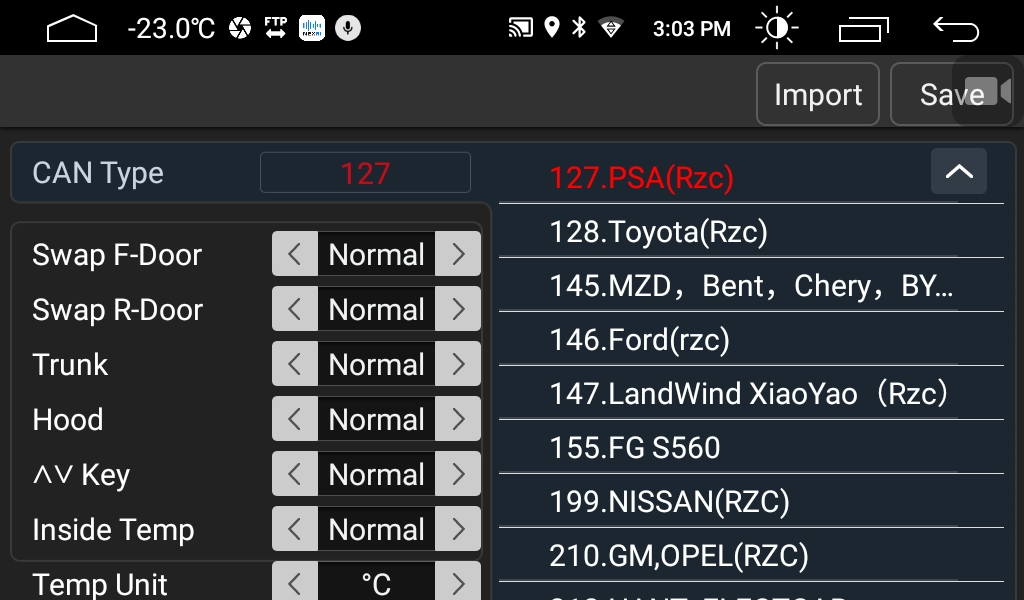
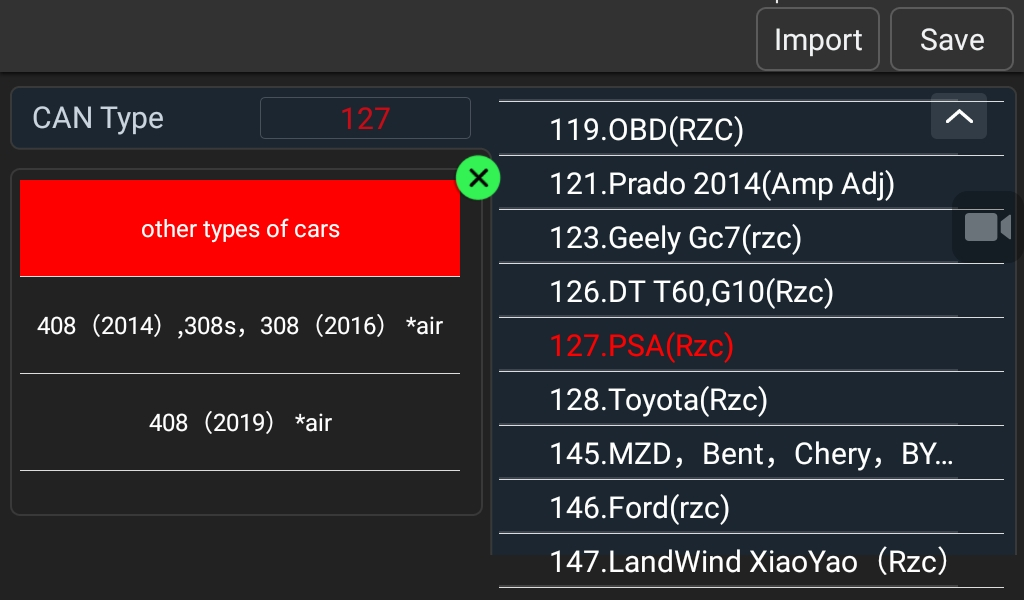
Added library for emulating another PSA can box (type 108)

diff --git a/JunsunPSAVANRemote.cpp b/JunsunPSAVANRemote.cpp
@@ -1,0 +1,81 @@
+#include "JunsunPSAVANRemote.h"
+
+JunsunPSAVANRemote::JunsunPSAVANRemote(Stream& serial)
+{
+    serialPort = &serial;
+}
+
+void JunsunPSAVANRemote::SendButtonCode(JunsunPSAVANButton button)
+{
+    uint8_t data[] = { (uint8_t) button, 0x01 }; //for press
+    //uint8_t data[] = { (uint8_t) button, 0x00 }; // for release?
+    SendData(ButtonCode, data, JS_ARRAY_SIZE(data));
+}
+
+void JunsunPSAVANRemote::SendCarInfo(uint8_t averageSpeed, uint16_t range, uint16_t distanceTravelled, float instantConsumption, float avgConsumption, int8_t externalTemperature, DoorStatus doorStatus)
+{
+    uint8_t temperatureByte = 0x00;
+
+    if (externalTemperature >= 0)
+    {
+        temperatureByte = externalTemperature;
+    }
+    else
+    {
+        temperatureByte = 0xFF - (-1*(externalTemperature+1));
+    }
+
+    uint16_t avgCons = avgConsumption * 10;
+    uint16_t instantCons = instantConsumption * 10;
+
+    uint8_t data[] = { averageSpeed, highByte(range), lowByte(range), highByte(distanceTravelled), lowByte(distanceTravelled), highByte(instantCons), lowByte(instantCons), highByte(avgCons), lowByte(avgCons), temperatureByte, doorStatus.asByte, 0x03, 0xFF };
+    SendData(CarStatus, data, JS_ARRAY_SIZE(data));
+}
+
+void JunsunPSAVANRemote::SendData(uint8_t functionId, uint8_t message[], uint8_t messageLength)
+{
+    /* the commands have the following layout
+     *      1st byte: 0x2E
+     *      2nd byte: function id
+     *      3rd byte: length of the payload (excluding the checksum and the first two bytes)
+     *      data bytes
+     *      last byte: checkSum (0xFF - sum of the individual bytes from 2nd byte)
+     *
+     *      Example: 0x2E 0x20 0x02 0x01 0x01 0xDB
+     *
+     *      0x2E: header
+     *      0x20: function id
+     *      0x02: length of the message: elemCount(0x01, 0x01)
+     *      0x01: payload byte1
+     *      0x01: payload byte2
+     *      0xDB: checksum = 0xFF - (0x20 + 0x02 + 0x01 + 0x01) (it is a byte so it can overflow)
+    */
+
+    // the first element is 0x2E
+    outputBuffer[0] = 0x2E;
+
+    // the second is the function id
+    outputBuffer[1] = functionId;
+
+    // the third is the length of the payload
+    outputBuffer[2] = messageLength;
+
+    uint8_t sumOfPayload = outputBuffer[1] + outputBuffer[2];
+    for (int i = 0; i < messageLength; ++i)
+    {
+        outputBuffer[i + 3] = message[i];
+        sumOfPayload += message[i];
+    }
+
+    // the last byte is the checksum
+    outputBuffer[messageLength + 3] = 0xFF - sumOfPayload;
+
+    //for (int i = 0; i < messageLength+4; ++i)
+    //{
+    //    Serial.print(outputBuffer[i], HEX);
+    //    Serial.print(" ");
+    //} 
+    //Serial.println();
+
+    serialPort->write(outputBuffer, messageLength + 4);
+}

diff --git a/JunsunPSACANRemote.cpp b/JunsunPSACANRemote.cpp
@@ -1,17 +1,17 @@
-#include "JunsunPSARemote.h"
+#include "JunsunPSACANRemote.h"
 
-JunsunPSARemote::JunsunPSARemote(Stream& serial)
+JunsunPSACANRemote::JunsunPSACANRemote(Stream& serial)
 {
     serialPort = &serial;
 }
 
-void JunsunPSARemote::SendButtonCode(JunsunPSAButton button)
+void JunsunPSACANRemote::SendButtonCode(JunsunPSAButton button)
 {
     uint8_t data[] = { 0x02, (uint8_t) button };
     SendData(data, JS_ARRAY_SIZE(data));
 }
 
-void JunsunPSARemote::SendSpeed(uint8_t speed)
+void JunsunPSACANRemote::SendSpeed(uint8_t speed)
 {
     uint16_t speedData = speed * 100;
 
@@ -22,7 +22,7 @@ void JunsunPSARemote::SendSpeed(uint8_t speed)
     SendData(data, JS_ARRAY_SIZE(data));
 }
 
-void JunsunPSARemote::SendTripDataCar(uint16_t icon1Data, double icon2Data, uint16_t icon3Data)
+void JunsunPSACANRemote::SendTripDataCar(uint16_t icon1Data, double icon2Data, uint16_t icon3Data)
 {
     // icon1 max = 2000
     // icon3 max = 6000
@@ -49,7 +49,7 @@ void JunsunPSARemote::SendTripDataCar(uint16_t icon1Data, double icon2Data, uint
     SendData(data, JS_ARRAY_SIZE(data));
 }
 
-void JunsunPSARemote::SendTripData1(uint16_t icon1Data, double icon2Data, uint8_t icon3Data)
+void JunsunPSACANRemote::SendTripData1(uint16_t icon1Data, double icon2Data, uint8_t icon3Data)
 {
     uint8_t icon1_part1 = highByte(icon1Data);
     uint8_t icon1_part2 = lowByte(icon1Data);
@@ -71,7 +71,7 @@ void JunsunPSARemote::SendTripData1(uint16_t icon1Data, double icon2Data, uint8_
     SendData(data, JS_ARRAY_SIZE(data));
 }
 
-void JunsunPSARemote::SendTripData2(uint16_t icon1Data, double icon2Data, uint8_t icon3Data)
+void JunsunPSACANRemote::SendTripData2(uint16_t icon1Data, double icon2Data, uint8_t icon3Data)
 {
     uint8_t icon1_part1 = highByte(icon1Data);
     uint8_t icon1_part2 = lowByte(icon1Data);
@@ -92,7 +92,7 @@ void JunsunPSARemote::SendTripData2(uint16_t icon1Data, double icon2Data, uint8_
     SendData(data, JS_ARRAY_SIZE(data));
 }
 
-void JunsunPSARemote::SendTemperature(int8_t temperature)
+void JunsunPSACANRemote::SendTemperature(int8_t temperature)
 {
     // Max temperature which is displayed is 87
     // Min temperature which is displayed is -40
@@ -112,7 +112,7 @@ void JunsunPSARemote::SendTemperature(int8_t temperature)
     SendData(data, JS_ARRAY_SIZE(data));
 }
 
-void JunsunPSARemote::SendData(uint8_t message[], uint8_t messageLength)
+void JunsunPSACANRemote::SendData(uint8_t message[], uint8_t messageLength)
 {
     /* the commands have the following layout
      *      1st byte: 0xFD

diff --git a/JunsunPSAVANRemote.h b/JunsunPSAVANRemote.h
@@ -1,0 +1,79 @@
+// JunsunPSAVANRemote.h
+
+#ifndef _JUNSUNVANREMOTE_h
+#define _JUNSUNVANREMOTE_h
+
+#if defined(ARDUINO) && ARDUINO >= 100
+    #include "arduino.h"
+#else
+    #include "WProgram.h"
+#endif
+
+enum JunsunPSAVANButton
+{
+    VolumeUp = 0x01,
+    VolumeDown = 0x02,
+    NextTrack = 0x03,
+    PreviousTrack = 0x04,
+    Source = 0x05,
+    //PreviousAlbum = 0x06,
+    Mute = 0x07,
+    //NextAlbum = 0x07,
+    TripComputer = 0x20
+};
+
+enum JunsunPSAVANFunctionId
+{
+    CarStatus = 0x01,
+    ButtonCode = 0x20
+};
+
+typedef struct {
+    uint8_t unknown0    : 1; // bit 0
+    uint8_t unknown1    : 1; // bit 1
+    uint8_t hood        : 1; // bit 2
+    uint8_t trunk       : 1; // bit 3
+    uint8_t rear_left   : 1; // bit 4
+    uint8_t rear_right  : 1; // bit 5
+    uint8_t front_left  : 1; // bit 6
+    uint8_t front_right : 1; // bit 7
+} DoorStatusStruct;
+
+typedef union {
+    DoorStatusStruct status;
+    uint8_t asByte;
+} DoorStatus;
+
+
+constexpr uint8_t MAX_JUNSUN_MESSAGE_LENGTH = 17;
+
+/*
+ * This is an implementation for remote controlling 8227L based Chinese Android players. These are called Junsun, Mekede, etc.
+ * In order to make it work, you need to select 108. Peugeot206/207/307 from the CAN Type settings.
+ * This library is tied to the Android unit and not to the car's model. So you don't have to have a Peugeot car to make this library work.
+ * You can interface any car as long as you implement whatever protocol it uses.
+ */
+class JunsunPSAVANRemote
+{
+private:
+    #define JS_ARRAY_SIZE(x)  (sizeof(x) / sizeof((x)[0]))
+    Stream* serialPort;
+    uint8_t outputBuffer[MAX_JUNSUN_MESSAGE_LENGTH];
+
+    void SendData(uint8_t functionId, uint8_t message[], uint8_t messageLength);
+
+public:
+    /*
+     * Serial should be an initialized Serial port with the following setup:
+     * Baud      : 38400
+     * Start bits: 1
+     * Data bits : 8
+     * Stop bits : 1
+     */
+    JunsunPSAVANRemote(Stream &serial);
+    ~JunsunPSAVANRemote();
+
+    void SendButtonCode(JunsunPSAVANButton button);
+    void SendCarInfo(uint8_t averageSpeed, uint16_t range, uint16_t distanceTravelled, float instantConsumption, float avgConsumption, int8_t externalTemperature, DoorStatus doorStatus);
+};
+#endif

diff --git a/JunsunPSACANRemote.h b/JunsunPSACANRemote.h
@@ -1,7 +1,7 @@
-// JunsunPSARemote.h
+// JunsunPSACANRemote.h
 
-#ifndef _JunsunPSARemote_h
-#define _JunsunPSARemote_h
+#ifndef _JunsunPSACANRemote_h
+#define _JunsunPSACANRemote_h
 
 #if defined(ARDUINO) && ARDUINO >= 100
     #include "arduino.h"
@@ -24,7 +24,13 @@ enum JunsunPSAButton
 
 constexpr uint8_t MAX_JUNSUN_MESSAGE_LENGTH = 13;
 
-class JunsunPSARemote
+/*
+ * This is an implementation for remote controlling 8227L based Chinese Android players. These are called Junsun, Mekede, etc.
+ * In order to make it work, you need to select 127. PSA(Rcz) from the CAN Type settings.
+ * This library is tied to the Android unit and not to the car's model. So you don't have to have a Peugeot car to make this library work.
+ * You can interface any car as long as you implement whatever protocol it uses.
+ */
+class JunsunPSACANRemote
 {
 private:
     #define JS_ARRAY_SIZE(x)  (sizeof(x) / sizeof((x)[0]))
@@ -34,8 +40,15 @@ private:
     void SendData(uint8_t message[], uint8_t messageLength);
 
 public:
-    JunsunPSARemote(Stream &serial);
-    ~JunsunPSARemote();
+    /*
+     * Serial should be an initialized Serial port with the following setup:
+     * Baud      : 19200
+     * Start bits: 1
+     * Data bits : 8
+     * Stop bits : 1
+     */
+    JunsunPSACANRemote(Stream &serial);
+    ~JunsunPSACANRemote();
 
     void SendButtonCode(JunsunPSAButton button);
     void SendSpeed(uint8_t speed);

diff --git a/readme.md b/readme.md
@@ -8,11 +8,13 @@ The CAN box adapter has much more functionality, like switching to the reverse c
 
 ### Why ?
 
-Because it is fun. But other than that if you forgot to order the CAN bus adapter, or you are looking for a DIY project I am here to help.
+Because it is fun. But other than that if you forgot to order the CAN bus adapter, or you are looking for a DIY project I am here to help. You don't need to have a Peugeot/Citroen car for this library, as it is written for the headunit. You can interface any car as long as you implement whatever protocol it uses.  For example you may have a Ford car where you implement the CAN bus parsing, but you use this library telling the headunit that you have a Peugeot.
 
 ### The protocol
 
-The CAN bus adapter uses a 19200 baud serial port with a 8 databits 1 stop bit and no parity to communicate with the head unit. It uses a simple protocol to send commands.
+#### CAN box protocol
+
+When you select CAN Type **127. PSA(Rzc)** from the settings the headunit will use a **19200** baud serial port with a 8 databits 1 stop bit and no parity to communicate with the CAN box. It uses a simple protocol to send commands.
 
 A sample message:
 
@@ -23,25 +25,37 @@ A sample message:
      │                           bytes
      └────────────────────────── header
 
-### Usage
-I attached a simple sketch which can be found in the examples folder. You need to set your CAN type to 127. PSA(Rzc) on the head unit to make it work.
+#### VAN box protocol
 
+VAN bus was used in Peugeot 206(+), 307 (2001-2005), 406,1007, Citroen Xsara, C3, C5... etc cars between 2001-2005.
+When you select CAN Type **108. Peugeot206/207/307** from the settings the headunit will use a **38400** baud serial port with a 8 databits 1 stop bit and no parity to communicate with the "CAN box". It uses a simple protocol to send commands.
+
+    0x2E 0x01 0x02 0x01 0x01 0xDB
+     │    │    │   └───┼───┘  └────── checksum (0xFF - sum of the previous bytes excluding the header, can overflow) 
+     │    │    │       └───────────── data bytes
+     │    │    └───────────────────── length of the payload
+     │    └────────────────────────── function id
+     └─────────────────────────────── header
+
+### Usage
+I attached two simple sketches which can be found in the examples folder. 
+If you use the JunsunPSA**C**ANRemote library then need to set CAN type to **127. PSA(Rzc)** on the head unit to make it work.
 ![schema](https://github.com/morcibacsi/JunsunPSARemote/raw/main/extras/can_setup.jpg)
 
-A basic sketch is like this:
+A basic sketch with JunsunPSA**C**ANRemote is like this:
 
-    #include <JunsunPSARemote.h>
+    #include <JunsunPSACANRemote.h>
     
     #define RXD2 16
     #define TXD2 17
 
-    JunsunPSARemote* remote;
+    JunsunPSACANRemote* remote;
     void setup()
     {
         // we use the Serial2 of the ESP32 to communicate with the head unit
         Serial2.begin(19200, SERIAL_8N1, RXD2, TXD2);
         // we instantiate the library
-        remote = new JunsunPSARemote(Serial2);
+        remote = new JunsunPSACANRemote(Serial2);
     }
 
     void loop()
@@ -55,12 +69,51 @@ A basic sketch is like this:
         remote->SendTripData2(4685, 4.2, 66);
     }
 
-You can watch a short video about it here:
+If you use the JunsunPSA**V**ANRemote library then need to set CAN type to **108. Peugeot206/207/307** on the head unit to make it work.
+![schema](https://github.com/morcibacsi/JunsunPSARemote/raw/main/extras/van_setup.jpg)
 
+A basic sketch with JunsunPSA**V**ANRemote is like this:
+
+    #include <JunsunPSAVANRemote.h>
+    
+    #define RXD2 16
+    #define TXD2 17
+
+    JunsunPSAVANRemote* remote;
+    void setup()
+    {
+        // we use the Serial2 of the ESP32 to communicate with the head unit
+        Serial2.begin(38400, SERIAL_8N1, RXD2, TXD2);
+        // we instantiate the library
+        remote = new JunsunPSAVANRemote(Serial2);
+    }
+
+    void loop()
+    {
+        remote->SendButtonCode(VolumeUp);
+        delay(6000);
+        remote->SendButtonCode(VolumeDown);
+        delay(6000);
+        
+        DoorStatus ds;
+        ds.status.front_left = 1;
+        remote->SendCarInfo(47, 653, 1549, 6, 8, -27, ds);
+        delay(6000);
+
+        ds.status.front_left = 0;
+        remote->SendCarInfo(47, 653, 1549, 6, 8, -27, ds);
+        delay(6000);
+    }
+
+You can watch a short video about it here:
 [![WATCH IT ON YOUTUBE](https://github.com/morcibacsi/JunsunPSARemote/raw/main/extras/youtube_preview.jpg)](https://www.youtube.com/watch?v=MtLH9LZdBNc "Watch it on YouTube")
 
+The Car Info application displaying our values:
+![van_features](https://github.com/morcibacsi/JunsunPSARemote/raw/main/extras/van_features.jpg)
 
 ### Schema
+
+The schema and the example uses an ESP32 devboard, but the library should work with other Arduino compatible boards as well.
 
 ![schema](https://github.com/morcibacsi/JunsunPSARemote/raw/main/extras/schema.jpg)
 
